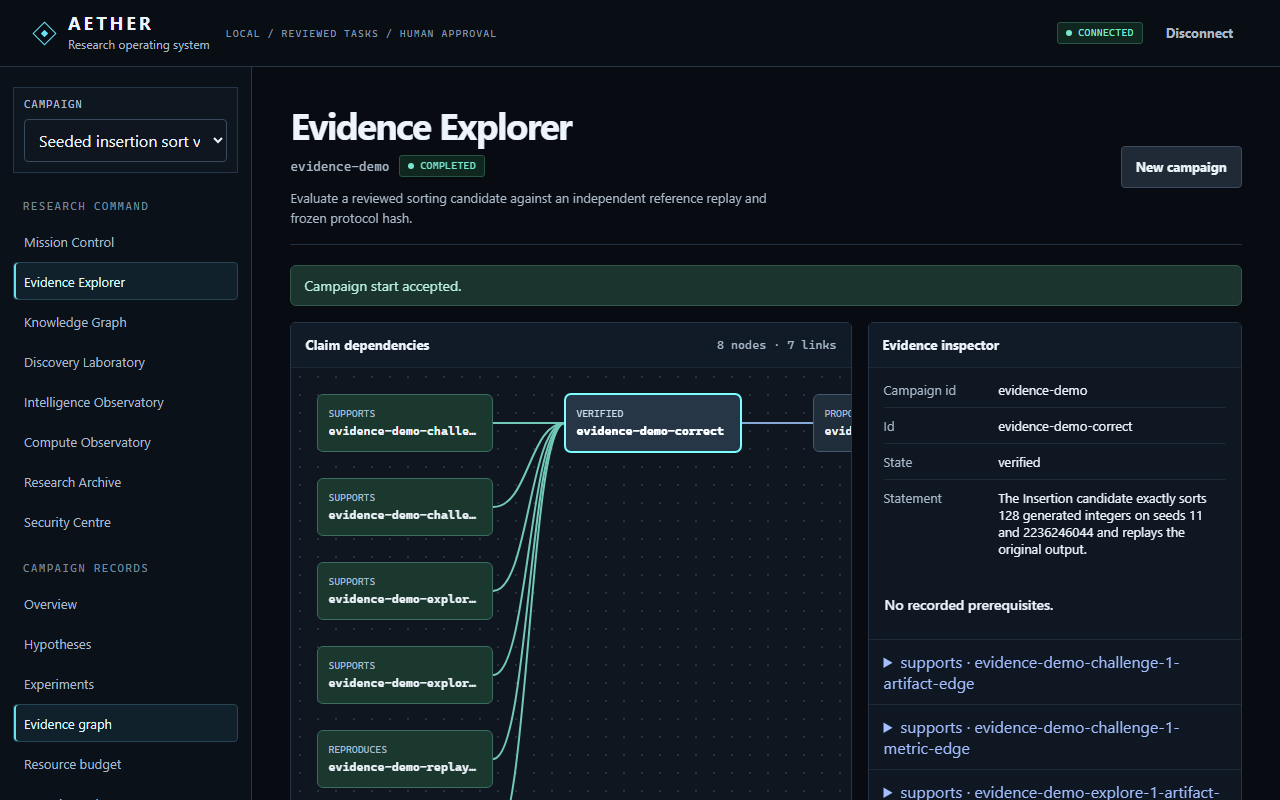
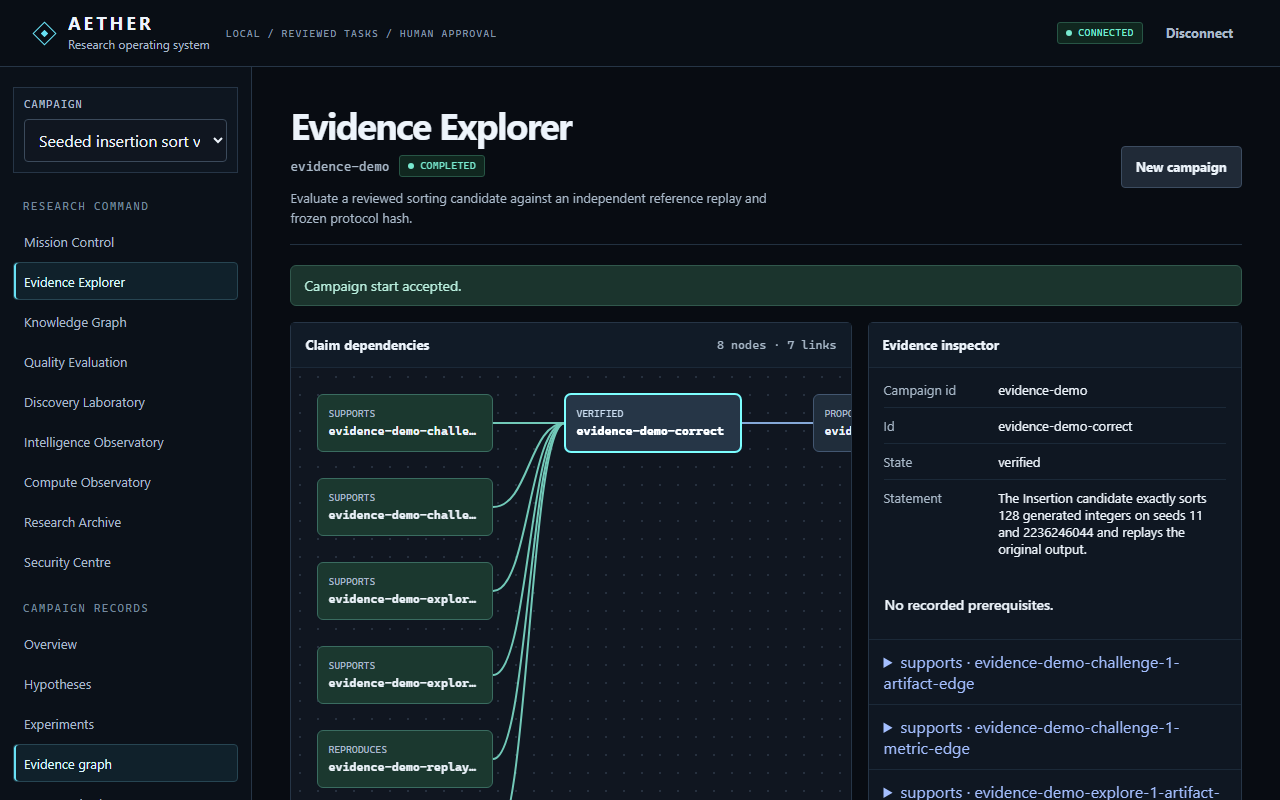
docs: sync public README and screenshots with merged APO-11 UI

diff --git a/README.md b/README.md
@@ -39,10 +39,9 @@
 ---
 
 > [!IMPORTANT]
-> **Implemented vs. Open Integration vs. Deferred Scope:**
-> - **Implemented on `main`:** Core deterministic Rust workspace (`aether-core`, `aether-engine`, `aether-store`, `aether-runner`, `aether-cli`, `aether-api`), literature archive & byte-span knowledge graph (`APO-01`–`04`), local model & dev dataset labs (`APO-05`/`06B`), declarative skills & DAG workflows (`APO-07`–`10`), local Research OS SPA (`web/`), and the **APO-11 structural evaluation backend** (merged via [PR #2](https://github.com/akaKRISH/AETHER/pull/2)).
-> - **Open in Review ([PR #1](https://github.com/akaKRISH/AETHER/pull/1), `work/apo11-antigravity`):** The 4-area Research Quality Evaluation frontend workspace consuming `/v1/eval/*` (passing CI; not yet merged to `main`).
-> - **Deferred / Not Implemented:** Live adapter training (`APO-06C–F`), automated multi-agent runtime daemons, human-review write endpoints, and independent held-out scientific validation (`not_performed`). No public hosted demo exists; AETHER runs locally on loopback `127.0.0.1`.
+> **Implemented vs. Deferred Scope:**
+> - **Implemented on `main`:** Core deterministic Rust workspace (`aether-core`, `aether-engine`, `aether-store`, `aether-runner`, `aether-cli`, `aether-api`), literature archive & byte-span knowledge graph (`APO-01`–`04`), local model & dev dataset labs (`APO-05`/`06B`), declarative skills & DAG workflows (`APO-07`–`10`), local Research OS SPA (`web/`), **APO-11 structural evaluation backend ([PR #2](https://github.com/akaKRISH/AETHER/pull/2))**, and the **4-area Research Quality Evaluation workspace ([PR #1](https://github.com/akaKRISH/AETHER/pull/1))**.
+> - **Deferred / Not Implemented:** Live adapter training (`APO-06C–F`), automated multi-agent runtime daemons, human-review write endpoints (`not_evaluated`), and independent held-out scientific validation (`not_performed`). No public hosted demo exists; AETHER runs locally on loopback `127.0.0.1`.
 
 ---
 
@@ -74,7 +73,7 @@ What AETHER executes and verifies today on `main` versus what remains open in re
 | **Local Models & Datasets** | Local GGUF/SafeTensors inspection, Ollama loopback gate (`APO-05`), group-disjoint dev dataset splits (`APO-06B`) | `independent_test: external_custody_required`; LoRA/QLoRA live training (`APO-06C–F`) blocked/deferred |
 | **Skills & Workflows** | Versioned inert skills (`APO-07`), closed Rust operation allowlist (`APO-09`), sequential DAGs (`APO-08`), 9+7 fixture eval (`APO-10`) | Zero shell, Python, or network execution in skills; cooperative cancellation only |
 | **Research OS Web UI** | React 19 + TypeScript SPA over loopback bearer-token Axum API & SSE (`web/`, `DAE-08`) | Binds strictly to `127.0.0.1`; constant-time auth; 8 KiB body cap |
-| **APO-11 Evaluation** | **Backend merged on `main` ([PR #2](https://github.com/akaKRISH/AETHER/pull/2)):** Draft 2020-12 contract, 8 structural rules, `/v1/eval/*` API | **Frontend in open [PR #1](https://github.com/akaKRISH/AETHER/pull/1);** checks structure/arithmetic only; `independent_scientific_validation: not_performed` |
+| **APO-11 Evaluation** | **Backend & UI merged on `main` ([PR #2](https://github.com/akaKRISH/AETHER/pull/2), [PR #1](https://github.com/akaKRISH/AETHER/pull/1)):** Draft 2020-12 contract, 8 structural rules, `/v1/eval/*` API, and 4-area Research Quality Evaluation UI | Structural completeness & arithmetic checks only; `human_review: not_evaluated`; `independent_scientific_validation: not_performed` |
 
 ---
 
@@ -177,7 +176,7 @@ flowchart LR
 ```
 
 <details>
-<summary><strong>Milestone progression and key CLI journeys (Phase 0 through APO-11A)</strong></summary>
+<summary><strong>Milestone progression and key CLI journeys (Phase 0 through APO-11)</strong></summary>
 
 | Milestone | Status on `main` | Key Verified Deliverable |
 |---|---|---|
@@ -187,8 +186,7 @@ flowchart LR
 | **APO-01 – APO-04** | Complete | Provider fixture parsing, transactional knowledge graph, DAE-04 hypothesis ranking, 3 unapproved experiment design drafts |
 | **APO-05 – APO-06A/B** | Complete for dev/proposals | Local GGUF/SafeTensors hashing, synthetic LoRA/QLoRA rehearsal, 26-row dev dataset manifest (`0c52ab...`) |
 | **APO-07 / 09 / 08 / 10** | Complete | Declarative skills, closed native operation kernel, sequential workflow DAGs, 2-process contract benchmark ([report](research/results/apo-10-workflow-contract-evaluation.json)) |
-| **APO-11A Backend** | Merged on `main` ([PR #2](https://github.com/akaKRISH/AETHER/pull/2)) | Draft 2020-12 contract (`contracts/apo11/`), 8 fixed structural dimensions, snapshots & paginated `/v1/eval/*` reports |
-| **APO-11B Frontend** | Open [PR #1](https://github.com/akaKRISH/AETHER/pull/1) | 4-area Research Quality Evaluation workspace on `work/apo11-antigravity` (CI passing; unmerged) |
+| **APO-11A / 11B Evaluation** | Merged on `main` ([PR #2](https://github.com/akaKRISH/AETHER/pull/2), [PR #1](https://github.com/akaKRISH/AETHER/pull/1)) | Draft 2020-12 contract (`contracts/apo11/`), 8 fixed structural dimensions, snapshots, paginated `/v1/eval/*` reports, and 4-area Research Quality Evaluation workspace |
 
 </details>
 
@@ -229,8 +227,8 @@ flowchart TB
     Owner["Project Owner\nScope, Architecture & Merge Authority"] --> SharedLedger["Shared Coordination Ledger\ndocs/agent-handoff/AGENT_SHARED.md"]
 
     SharedLedger --> CodexWT["work/apo11-codex (Merged PR #2)\nBackend Evaluator · Schema · /v1/eval API"]
-    SharedLedger --> AgWT["work/apo11-antigravity (Open PR #1)\nFrontend 4-Area Workspace · Browser QA"]
-    SharedLedger --> DocWT["docs/readme-experience (This PR)\nREADME · Banner SVG · UI Screenshots"]
+    SharedLedger --> AgWT["work/apo11-antigravity (Merged PR #1)\nFrontend 4-Area Workspace · Browser QA"]
+    SharedLedger --> DocWT["docs/readme-experience (Merged PR #3)\nREADME · Banner SVG · UI Screenshots"]
 
     CodexWT --> ReviewGate["Cross-Agent Contract Audit &\nHuman Approval Gate"]
     AgWT --> ReviewGate
@@ -245,13 +243,13 @@ flowchart TB
 ## APO-11 Structural Evaluation
 
 > [!NOTE]
-> **Integration Status:** The APO-11 structural evaluation backend is **merged on `main`** via [PR #2](https://github.com/akaKRISH/AETHER/pull/2) ([spec & limits](docs/research/APO11_STRUCTURAL_EVALUATION.md), [canonical schema](contracts/apo11/quality-evaluation.schema.json)). Its companion 4-area Research Quality Evaluation React workspace lives in **open [PR #1](https://github.com/akaKRISH/AETHER/pull/1)** (`work/apo11-antigravity`, CI green) and is pending merge.
+> **Integration Status:** Both the APO-11 structural evaluation backend ([PR #2](https://github.com/akaKRISH/AETHER/pull/2) — [spec & limits](docs/research/APO11_STRUCTURAL_EVALUATION.md), [canonical schema](contracts/apo11/quality-evaluation.schema.json)) and the 4-area Research Quality Evaluation React workspace ([PR #1](https://github.com/akaKRISH/AETHER/pull/1)) are **merged on `main`**.
 
 Instead of grading mutable database state, APO-11 enforces a two-step content-addressed evaluation flow:
 
 ```mermaid
 flowchart LR
-    Client["Authorized API Client /\nPR #1 4-Area UI (In Review)"] -->|"1. GET /v1/eval/benchmarks"| Bench["Pinned Benchmark Spec\nDraft 2020-12 Schema +\n8 Versioned Rule IDs"]
+    Client["Authorized 4-Area Quality UI\n(Merged on main)"] -->|"1. GET /v1/eval/benchmarks"| Bench["Pinned Benchmark Spec\nDraft 2020-12 Schema +\n8 Versioned Rule IDs"]
     Client -->|"2. POST /v1/eval/snapshots\ngraph_root_id + SubjectRef pointers"| Snap["Immutable Snapshot Projection\nSource Text Redacted · Graph Digest\nVerified Before & After"]
     Snap -->|"3. POST /v1/eval/runs\nbenchmark_sha256 + snapshot_sha256"| Engine["Pure Engine Evaluator\ncrates/aether-engine/src/quality.rs\nexecution_outcome: completed"]
     Engine -->|"4. Raw Report SHA-256 +\nAUTOINCREMENT Sequence Index"| Reports["GET /v1/eval/reports\nCursor Pagination (before_sequence)\n& GET /v1/eval/reports/{sha256}"]
@@ -284,7 +282,7 @@ flowchart LR
 
 ## Screenshots
 
-Captured directly from a local release build of the current `main` branch (`aether-lab serve` + built `web/dist`) using Playwright and non-sensitive development fixtures (`evidence-demo`, `DAE-04`, built-in declarative skill registry). **No public hosted demo exists; screenshots reflect the local loopback Research OS.**
+Captured directly from a local release build of `main` (`aether-lab serve` + built `web/dist`) using Playwright and non-sensitive development fixtures (`evidence-demo`, `DAE-04`, declarative skill registry, and APO-11 snapshot evaluation). **No public hosted demo exists; screenshots reflect the local loopback Research OS.**
 
 <table width="100%">
   <tr>
@@ -296,31 +294,38 @@ Captured directly from a local release build of the current `main` branch (`aeth
       <sub><strong>Evidence Explorer &amp; Claim Dependency Graph (Desktop):</strong> Interactive SVG claim DAG showing <code>SUPPORTS</code> / <code>REPRODUCES</code> links converging on a <code>VERIFIED</code> claim and inspector sidebar.</sub>
     </td>
     <td width="50%" valign="top">
+      <a href="docs/assets/screenshots/aether-apo11-quality.png">
+        <img src="docs/assets/screenshots/aether-apo11-quality.png" width="100%" alt="AETHER Quality Evaluation workspace displaying Structural completeness, not scientific truth., three verification layers, and newest-first run history">
+      </a>
+      <br>
+      <sub><strong>APO-11 Quality Evaluation Workspace (Desktop):</strong> Explicit 3-layer separation across automated structural checks, disabled human semantic review (<code>NOT_EVALUATED</code>), and external scientific validation (<code>NOT_PERFORMED</code>).</sub>
+    </td>
+  </tr>
+  <tr>
+    <td width="50%" valign="top">
       <a href="docs/assets/screenshots/aether-knowledge-discovery.png">
         <img src="docs/assets/screenshots/aether-knowledge-discovery.png" width="100%" alt="AETHER Knowledge Graph searching DAE-04 matched hybrid search entities with SHA-256 source metadata inspector">
       </a>
       <br>
       <sub><strong>Knowledge Graph Explorer (Desktop):</strong> Pinned search over the <code>DAE-04 matched</code> slice inspecting exact SHA-256 node identity, statement schema, and archive pointer.</sub>
     </td>
-  </tr>
-  <tr>
-    <td width="64%" valign="top">
+    <td width="50%" valign="top">
       <a href="docs/assets/screenshots/aether-intelligence-observatory.png">
         <img src="docs/assets/screenshots/aether-intelligence-observatory.png" width="100%" alt="AETHER Intelligence Observatory showing Inference is advisory. Verification decides. heading and local model evaluation fixtures">
       </a>
       <br>
       <sub><strong>Intelligence Observatory (Desktop):</strong> Advisory inference framing (<em>"Inference is advisory. Verification decides."</em>) paired with local regression fixture comparisons.</sub>
     </td>
-    <td width="36%" valign="top">
-      <p align="center">
-        <a href="docs/assets/screenshots/aether-mission-mobile.png">
-          <img src="docs/assets/screenshots/aether-mission-mobile.png" width="215" alt="AETHER Mission Control responsive mobile layout at 390x844 viewport with completed campaign badge">
-        </a>
-      </p>
-      <sub><strong>Mobile Command View (390×844):</strong> Responsive navigation and campaign header verified with zero horizontal overflow.</sub>
-    </td>
   </tr>
 </table>
+
+<p align="center">
+  <a href="docs/assets/screenshots/aether-mission-mobile.png">
+    <img src="docs/assets/screenshots/aether-mission-mobile.png" width="250" alt="AETHER Mission Control responsive mobile layout at 390x844 viewport with completed campaign badge">
+  </a>
+  <br>
+  <sub><strong>Mobile Command View (390×844):</strong> Responsive navigation and campaign header verified with zero horizontal overflow.</sub>
+</p>
 
 ---
 
@@ -455,10 +460,9 @@ Development progresses strictly by verified milestones and explicit owner decisi
 
 | Horizon | Track / Item | Current State |
 |---|---|---|
-| **Completed on `main`** | Core crates (`aether-core`..`aether-api`), Prometheus/Athena, `APO-01`–`10`, `APO-11A` backend ([PR #2](https://github.com/akaKRISH/AETHER/pull/2)) | Verified across Rust workspace CI (`ubuntu-latest` + `windows-latest`), schema/doc validators, and contract suites |
-| **Active / Open PR** | `APO-11B` Research Quality Evaluation frontend workspace ([PR #1](https://github.com/akaKRISH/AETHER/pull/1)) | Passing CI on `work/apo11-antigravity`; awaiting final merge to `main` |
+| **Completed on `main`** | Core crates (`aether-core`..`aether-api`), Prometheus/Athena, `APO-01`–`10`, `APO-11A` backend ([PR #2](https://github.com/akaKRISH/AETHER/pull/2)) & `APO-11B` frontend workspace ([PR #1](https://github.com/akaKRISH/AETHER/pull/1)) | Verified across Rust workspace CI (`ubuntu-latest` + `windows-latest`), frontend lint/typecheck/tests/build, schema/doc validators, and contract suites |
 | **Deferred / Blocked** | Live adapter training (`APO-06C–F`), paired ECAR held-out study (`ATH-02B`) | Resource-blocked behind qualified hardware, independent test-set custody, and pre-registered review |
-| **Proposed / Future** | Reviewer-identity write APIs, PDF full-text conversion & live provider qualification, R2/R3 SDK | Requires separate threat review, license adoption, and explicit owner authorization |
+| **Proposed / Future** | Reviewer-identity write APIs, PDF full-text conversion & live provider qualification, R2/R3 SDK, OSS license & release gate | Requires separate threat review, license adoption, and explicit owner authorization |
 
 ---
 

diff --git a/docs/REPOSITORY_INVENTORY.md b/docs/REPOSITORY_INVENTORY.md
@@ -110,10 +110,6 @@ AETHER/
 - [RESUME.md](../RESUME.md)
 - [SECURITY.md](../SECURITY.md)
 
-### .github
-
-- [README.md](../.github/README.md)
-
 ### .github/workflows
 
 - [ci.yml](../.github/workflows/ci.yml)
